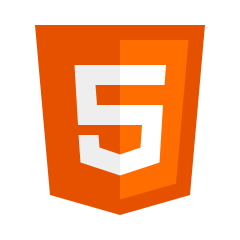
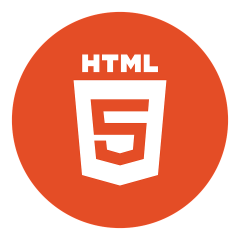
new file:   public/hero/hero1.png 	modified:   src/assets/tech/html.png 	modified:   src/components/About.jsx 	modified:   src/components/Hero.jsx 	modified:   src/components/Tech.jsx 	modified:   src/components/canvas/Ball.jsx 	modified:   src/components/canvas/Computers.jsx 	modified:   src/compon

diff --git a/src/components/canvas/Computers.jsx b/src/components/canvas/Computers.jsx
@@ -5,7 +5,7 @@
 // import CanvasLoader from "../Loader";
 
 // const Computers = ({isMobile}) => {
-//   const computer = useGLTF("./desktop_pc/scene.gltf");
+//   const computer = useGLTF("/desktop_pc/scene.gltf");
 
 //   return (
 //     <mesh>
@@ -73,43 +73,13 @@
 
 // export default ComputersCanvas;
 
-import React, { Suspense, useEffect, useState } from "react";
-import { Canvas } from "@react-three/fiber";
-import { OrbitControls, Preload, useGLTF } from "@react-three/drei";
-import * as THREE from "three"; // Import Three.js
-import CanvasLoader from "../Loader";
 
-const Computers = ({ isMobile }) => {
-  const computer = useGLTF("./desktop_pc/scene.gltf");
-
-  return (
-    <mesh>
-      <hemisphereLight intensity={1.7} groundColor="black" />
-      <spotLight
-        position={[-20, 50, 10]}
-        angle={0.12}
-        penumbra={1}
-        intensity={1}
-        castShadow
-        shadow-mapSize={1024}
-      />
-      <pointLight intensity={1} />
-      <primitive
-        object={computer.scene}
-        scale={isMobile ? 0.5 : 0.7}
-        position={isMobile ? [0, -3, -2.2] : [0, -3.25, -1.5]}
-        rotation={[-0.01, -0.2, -0.1]}
-      />
-    </mesh>
-  );
-};
+import React, { useEffect, useState } from "react";
 
 const ComputersCanvas = () => {
   const [isMobile, setIsMobile] = useState(false);
-  const [webglSupported, setWebGLSupported] = useState(true);
 
   useEffect(() => {
-    // ✅ Fix useEffect dependency issue
     const mediaQuery = window.matchMedia("(max-width: 500px)");
     setIsMobile(mediaQuery.matches);
 
@@ -118,54 +88,42 @@ const ComputersCanvas = () => {
     };
 
     mediaQuery.addEventListener("change", handleMediaQueryChange);
-
     return () => {
       mediaQuery.removeEventListener("change", handleMediaQueryChange);
     };
-  }, []); // ✅ Add dependency array to prevent multiple executions
-
-  useEffect(() => {
-    // ✅ Check if WebGL is supported
-    const canvas = document.createElement("canvas");
-    const gl = canvas.getContext("webgl") || canvas.getContext("webgl2");
-
-    if (!gl) {
-      console.warn("WebGL not supported on this device.");
-      setWebGLSupported(false);
-    }
   }, []);
 
-  if (!webglSupported) {
-    return <div>WebGL is not supported on this device.</div>;
-  }
-
   return (
-    <Canvas
-      frameloop="demand"
-      shadows
-      dpr={Math.min(window.devicePixelRatio, 2)} // ✅ Optimize DPR
-      camera={{ position: [20, 3, 5], fov: 25 }}
-      gl={{
-        preserveDrawingBuffer: true,
-        powerPreference: "high-performance", // ✅ Improve WebGL performance
-        antialias: true, // ✅ Ensure smoother edges
-      }}
-      onCreated={({ gl }) => {
-        gl.setPixelRatio(Math.min(window.devicePixelRatio, 2)); // ✅ Prevent extreme pixel ratios
-        gl.outputEncoding = THREE.sRGBEncoding; // ✅ Ensure correct color rendering
+    <div
+      style={{
+        position: "relative",
+        width: "100%",
+        height: "100vh",
+        backgroundSize: "cover",
+        backgroundPosition: "center",
+        display: "flex",
+        flexDirection: "column",
+        justifyContent: "center",
+        alignItems: "center",
+        padding: isMobile ? "20px" : "40px",
       }}
     >
-      <Suspense fallback={<CanvasLoader />}>
-        <OrbitControls
-          enableZoom={false}
-          maxPolarAngle={Math.PI / 2}
-          minPolarAngle={Math.PI / 2}
-        />
-        <Computers isMobile={isMobile} />
-      </Suspense>
+      <div style={{ 
+        marginBottom: isMobile ?  "100px" : "300px", 
+        textAlign: "center", 
+        color: "white" }}>
+      </div>
 
-      <Preload all />
-    </Canvas>
+      <img
+        src="/hero/hero1.png"
+        alt="Hero"
+        style={{
+          width: isMobile ? "90%" : "50%",
+          height: "auto",
+          scale: '1.3',
+        }}
+      />
+    </div>
   );
 };
 

diff --git a/src/components/Tech.jsx b/src/components/Tech.jsx
@@ -1,20 +1,96 @@
+// import React from 'react'
+// import { BallCanvas } from './canvas'
+// import { SectionWrapper } from '../hoc'
+// import { technologies } from '../constants'
+
+
+// const Tech = () => {
+//   return (
+//     <div className='flex flex-row flex-wrap
+//     justify-center gap-10'>
+//       {technologies.map((technology) => (
+//         <div className='w-28 h-28' key = {technology.index}>
+//           <BallCanvas icon ={technology.icon} key = {technology.index}/>
+//         </div>
+//       ))}
+
+//     </div>
+//   )
+// }
+
+// export default SectionWrapper(Tech, "")
+
 import React from 'react'
-import { BallCanvas } from './canvas'
+import {Tilt} from 'react-tilt'
+import {motion} from 'framer-motion'
+import {technologies} from '../constants'
+import {fadeIn} from '../utils/motion'
 import { SectionWrapper } from '../hoc'
-import { technologies } from '../constants'
+
+
+const ServiceCard = ({ index, name, icon }) => {
+  return (
+    <Tilt className="w-[40vw] sm:w-[100px] md:w-[160px]"> 
+      <motion.div
+        variants={fadeIn("right", "spring", 0.5 * index, 0.75)}
+        className="w-full green-pink-gradient
+         p-[1px] rounded-[20px] shadow-card"
+      >
+        <div
+          options={{
+            max: 45, 
+            scale: 1, 
+            speed: 450,
+          }}
+          className="bg-tertiary rounded-[20px] py-5 px-12 
+          min-h-[10px] md:py-4 md:px-10 md:min-h-[100px] 
+          flex justify-evenly items-center flex-col"
+        >
+          <img
+            scale = {2}
+            src={icon}
+            alt={name}
+            className="w-20 h-20 object-cover md:w-20 md:h-20"
+          />
+        </div>
+      </motion.div>
+    </Tilt>
+  );
+};
 
 
 const Tech = () => {
   return (
-    <div className='flex flex-row flex-wrap
-    justify-center gap-10'>
-      {technologies.map((technology) => (
-        <div className='w-28 h-28' key = {technology.name}>
-          <BallCanvas icon ={technology.icon}/>
-        </div>
-      ))}
-    </div>
+    <>
+      {/* <motion.div
+      varients = {textVariant()}>
+        <p className={styles.sectionSubText}>
+          Introduction</p>
+        <h2 className={styles.sectionHeadText}>Overview</h2>
+      </motion.div> */}
+{/* 
+      <motion.p
+      varients = {fadeIn("", "", 0.1, 1)}
+      className='mt-4 text-secondary text-[17px]
+      max-w-3xl leading-[30px]'>
+        Hii 👋🏻! I'm Kundan, a skilled and passionate software developer 
+        with expertise in JavaScript, TypeScript, React, and 
+        Node.js. I have developed real-time collaborative apps 
+        like Code Sync and created innovative platforms like 
+        Co-Board. With a focus on crafting efficient, scalable, 
+        and user-friendly solutions, I excel at turning ideas 
+        into impactful applications. Let's collaborate to bring 
+        your vison to life!
+      </motion.p> */}
+
+      <div className= 'mt-0 flex flex-wrap gap-8'>
+        {technologies.map((technology) => (
+          <ServiceCard key={technology.index} icon={technology.icon} {...technology}/>
+        ))}
+      </div>
+
+    </>
   )
 }
 
-export default SectionWrapper(Tech, "")
+export default SectionWrapper(Tech, " ")

diff --git a/src/constants/index.js b/src/constants/index.js
@@ -102,62 +102,77 @@ import {
       icon: creator,
     },
   ];
-  
+
   const technologies = [
     {
-      name: "HTML 5",
+      index: 1,
+      name: "html",
       icon: html,
     },
     {
-      name: "CSS 3",
+      index: 2,
+      name: "css",
       icon: css,
     },
     {
-      name: "JavaScript",
+      index: 3,
+      name:"javascript",
       icon: javascript,
     },
     {
-      name: "TypeScript",
+      index: 4,
+      name: "typescript",
       icon: typescript,
     },
     {
-      name: "React JS",
+      index: 5,
+      name: "react",
       icon: reactjs,
     },
     {
-      name: "Redux Toolkit",
+      index: 6,
+      name: "redux",
       icon: redux,
     },
     {
-      name: "Tailwind CSS",
+      index: 7,
+      name: "tailwind",
       icon: tailwind,
     },
     {
-      name: "Node JS",
+      index: 8,
+      name: "nodejs",
       icon: nodejs,
     },
     {
-      name: "MongoDB",
+      index: 9,
+      name: "mongodb",
       icon: mongodb,
     },
     {
-      name: "Python",
+      index: 10,
+      name: "python",
       icon: python,
     },
     {
+      index: 11,
       name: "git",
       icon: git,
     },
     {
+      index: 12,
       name: "java",
       icon: java,
     },
     {
-      name: "Mysql",
+      index: 13,
+      name: "sql",
       icon: sql,
     },
+
   ];
-  
+ 
+
   const experiences = [
     {
       title: "J.C. Bose UNiversity of Science and Technology",

diff --git a/src/components/canvas/Ball.jsx b/src/components/canvas/Ball.jsx
@@ -5,14 +5,14 @@ import CanvasLoader from '../Loader'
 
 const Ball = (props) => {
 
-  const [decal] = useTexture([props.imgUrl])
+  const [decal] = useTexture([props.imgUrl] || "fallback-image.png")
 
   return (
-    <Float speed={1.75} rotationIntensity={1}
-    floatIntensity={2}>
+    <Float speed={1.5} rotationIntensity={0.8}
+    floatIntensity={1.5}>
       <ambientLight intensity={0.25}/>
       <directionalLight position={[0, 0, 0.05]}/>
-      <mesh castShadow receiveShadow scale={2.5}>
+      <mesh castShadow receiveShadow scale={2.5}> 
         <icosahedronGeometry args={[1,1]}/>
         <meshStandardMaterial
         color='#fff8eb'
@@ -33,8 +33,8 @@ const Ball = (props) => {
 const BallCanvas = ({icon}) =>{
   return(
         <Canvas 
-        frameloop='demand'
-        gl={{ preserveDrawingBuffer: true }}
+        frameloop='always'
+        // gl={{ preserveDrawingBuffer: true }}
       >
         <Suspense fallback={<CanvasLoader />}>
           <OrbitControls
@@ -50,3 +50,4 @@ const BallCanvas = ({icon}) =>{
 }
 
 export default BallCanvas
+

diff --git a/src/components/Hero.jsx b/src/components/Hero.jsx
@@ -52,7 +52,7 @@ const Hero = () => {
       </div>
       <ComputersCanvas />
 
-      <div className='absolute xs:bottom-7 bottom-3 w-full flex justify-end right-10 items-center'>
+      <div className='absolute xs:bottom-7 bottom-20 w-full flex justify-end right-10 items-center'>
         <a href='#about'>
           <div className='w-[35px] h-[64px] rounded-3xl border-4
           border-secondary flex justify-center items-start p-2'>

diff --git a/src/components/About.jsx b/src/components/About.jsx
@@ -28,7 +28,7 @@ const ServiceCard = ({ index, title, icon }) => {
           <img
             src={icon}
             alt={title}
-            className="w-16 h-16 object-contain md:w-14 md:h-14"
+            className="w-16 h-16 object-cover md:w-14 md:h-14"
           />
           <h3 className="text-white text-[20px] font-bold
            text-center md:text-[16px]"> 

diff --git a/src/components/canvas/Earth.jsx b/src/components/canvas/Earth.jsx
@@ -7,7 +7,7 @@ import CanvasLoader from '../Loader'
 
 const Earth = () => {
 
-  const earth = useGLTF('./planet/scene.gltf')
+  const earth = useGLTF('/planet/scene.gltf')
 
   return (
     <primitive
